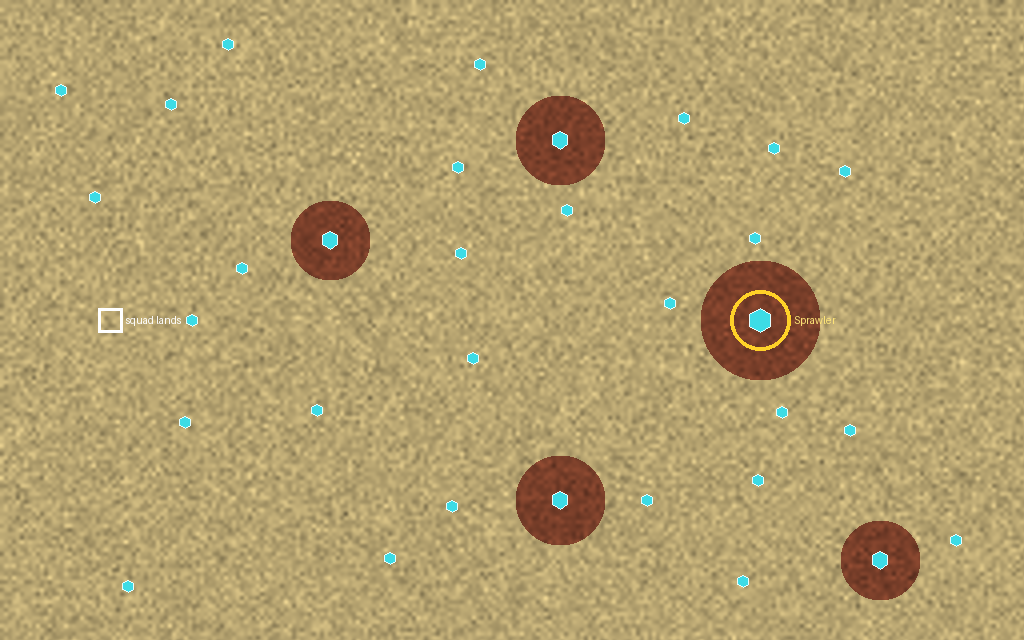
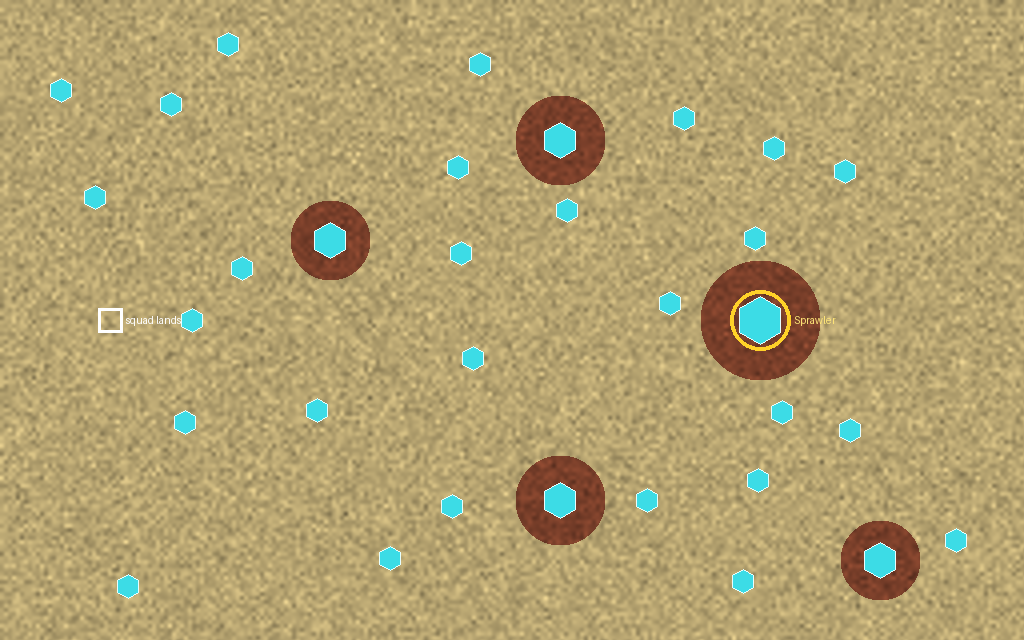
Maps v2: crystal radii doubled to the engine's pile size (1024 x 640 cells)
Claude-Session: https://claude.ai/code/session_01PYHSSuBKqcTi9aBdxxXKU3

diff --git a/Reports/larder-maps-2026-11-11/sketch_maps.py b/Reports/larder-maps-2026-11-11/sketch_maps.py
@@ -54,16 +54,18 @@ SOILS = {"plain": 0, "sand": 1, "clay": 2, "barren": 3}
 # water (wet), soil kinds, soft rock (walls with health), crystals. Each
 # map: name, the plan it is drawn for, rock polylines and discs, water
 # discs, soft rock, soil patches, crystals (x, y, radius, charge), mould
-# starts (x, y, radius, tier), landing. Version 1 (height-led) is in git
+# starts (x, y, radius, tier), landing. All in 1024 x 640 cells (the
+# Larder world's pile_r of 6 dish cells is 24 here); crystal radii were
+# doubled from version 1, whose 7-15 were under the engine's own pile. Version 1 (height-led) is in git
 # history (PR #76).
 MAPS = [
  dict(name="rim", title="The Rim", plan="turtle (hold the gaps in the rim)",
       rock=[("ring", 512, 320, 200, 16, [(0, 14), (90, 10), (180, 14), (270, 10)])],
       wet=[("disc", 470, 360, 34)], soft=[],
       soil=[("disc", 512, 320, 184, "clay"), ("ring", 512, 320, 250, 30, "sand")],
-      crystals=[(460, 280, 14, 512), (575, 360, 14, 512), (560, 250, 12, 384),
-                (150, 120, 9, 256), (880, 120, 9, 256), (150, 520, 9, 256), (880, 520, 9, 256),
-                (512, 50, 9, 256), (512, 595, 9, 256), (60, 320, 8, 192), (970, 320, 8, 192)],
+      crystals=[(460, 280, 28, 512), (575, 360, 28, 512), (560, 250, 24, 384),
+                (150, 120, 18, 256), (880, 120, 18, 256), (150, 520, 18, 256), (880, 520, 18, 256),
+                (512, 50, 18, 256), (512, 595, 18, 256), (60, 320, 16, 192), (970, 320, 16, 192)],
       moulds=[(512, 320, 24, "Drifter or Sprawler")], landing=(90, 580)),
  dict(name="fork", title="The Fork", plan="lure (bait one fork, harvest the other)",
       rock=[("poly", [(440, 640), (440, 420), (200, 120)], 9), ("poly", [(584, 640), (584, 420), (824, 120)], 9),
@@ -71,8 +73,8 @@ MAPS = [
             ("poly", [(240, 40), (330, 160)], 8), ("poly", [(784, 40), (694, 160)], 8)],
       wet=[("disc", 260, 80, 30)], soft=[],
       soil=[("disc", 512, 600, 80, "clay")],
-      crystals=[(512, 600, 12, 384), (330, 300, 10, 384), (180, 60, 13, 512), (694, 300, 10, 384), (844, 60, 13, 512),
-                (512, 170, 9, 256), (470, 250, 7, 192), (560, 240, 7, 192), (120, 450, 8, 192), (900, 450, 8, 192)],
+      crystals=[(512, 600, 24, 384), (330, 300, 20, 384), (180, 60, 26, 512), (694, 300, 20, 384), (844, 60, 26, 512),
+                (512, 170, 18, 256), (470, 250, 14, 192), (560, 240, 14, 192), (120, 450, 16, 192), (900, 450, 16, 192)],
       moulds=[(512, 590, 26, "Trunk")], landing=(512, 200)),
  dict(name="flats", title="The Flats", plan="boom (out-harvest a mould that cannot hold sand)",
       rock=[], wet=[], soft=[],
@@ -83,8 +85,8 @@ MAPS = [
       rock=[("disc", 300, 140, 50), ("disc", 300, 500, 50)], wet=[("disc", 860, 120, 40), ("disc", 860, 520, 40)],
       soft=[("ring", 640, 320, 135, 8, [(200, 12)])],
       soil=[("disc", 640, 320, 128, "clay")],
-      crystals=[(600, 290, 15, 640), (690, 360, 15, 640), (180, 120, 8, 192), (180, 520, 8, 192),
-                (380, 320, 8, 192), (420, 90, 7, 160), (420, 560, 7, 160), (930, 120, 7, 160), (930, 540, 7, 160)],
+      crystals=[(600, 290, 30, 640), (690, 360, 30, 640), (180, 120, 16, 192), (180, 520, 16, 192),
+                (380, 320, 16, 192), (420, 90, 14, 160), (420, 560, 14, 160), (930, 120, 14, 160), (930, 540, 14, 160)],
       moulds=[(640, 320, 18, "Sleeper or Hunter")], landing=(130, 320)),
  dict(name="passes", title="The Passes", plan="adapt (set two moulds on each other)",
       rock=[("poly", [(220, 215), (1024, 215)], 9), ("poly", [(0, 215), (150, 215)], 9),
@@ -92,8 +94,8 @@ MAPS = [
       wet=[("disc", 380, 320, 36), ("disc", 700, 300, 30)],
       soft=[("poly", [(150, 215), (220, 215)], 6)],
       soil=[("rect", 0, 0, 1024, 206, "clay"), ("rect", 0, 434, 1024, 640, "sand")],
-      crystals=[(300, 100, 11, 384), (650, 90, 12, 512), (900, 150, 10, 384), (300, 540, 11, 384), (650, 560, 12, 512),
-                (900, 500, 10, 384), (200, 320, 8, 256), (560, 330, 9, 256), (820, 340, 9, 320)],
+      crystals=[(300, 100, 22, 384), (650, 90, 24, 512), (900, 150, 20, 384), (300, 540, 22, 384), (650, 560, 24, 512),
+                (900, 500, 20, 384), (200, 320, 16, 256), (560, 330, 18, 256), (820, 340, 18, 320)],
       moulds=[(860, 90, 26, "rival A (clay valley)"), (860, 570, 26, "rival B (sand valley)")], landing=(90, 320)),
 ]
 
@@ -126,11 +128,11 @@ def build(m):
         elif s_[0] == "ring": soil[np.abs(np.hypot(xx - s_[1], yy - s_[2]) - s_[3]) < s_[4]] = SOILS[s_[5]]
     if m["crystals"] == "scatter":
         rng = np.random.default_rng(42)
-        cs = [(760, 320, 12, 384), (560, 140, 9, 256), (560, 500, 9, 256), (330, 240, 9, 256), (880, 560, 9, 256)]
+        cs = [(760, 320, 24, 384), (560, 140, 18, 256), (560, 500, 18, 256), (330, 240, 18, 256), (880, 560, 18, 256)]
         while len(cs) < 32:
             x, y = int(rng.uniform(40, 984)), int(rng.uniform(40, 600))
             if all(math.hypot(x - a, y - b) > 70 for a, b, *_ in cs) and math.hypot(x - 110, y - 320) > 60:
-                cs.append((x, y, 6, 96))
+                cs.append((x, y, 12, 96))
         m["crystals"] = cs
     wet &= ~rock
     return h, rock, wet, soft, soil
